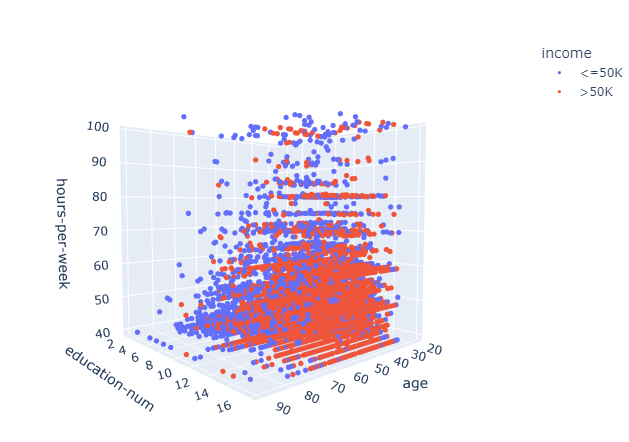
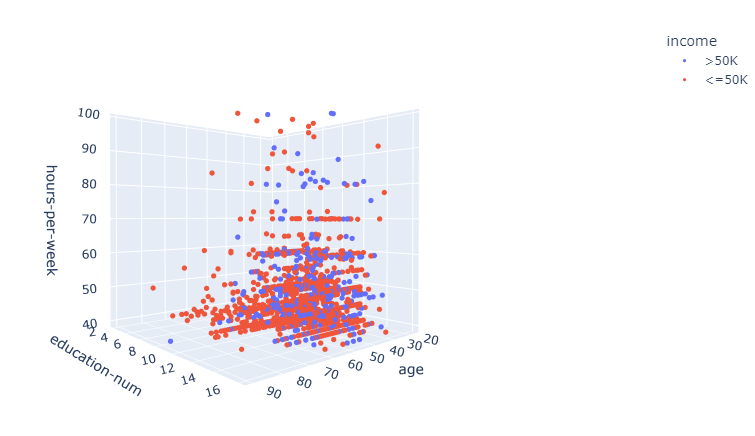
More Part

Changed region(s): [[0.0604, 0.2385, 0.725, 0.9541], [0.876, 0.0894, 0.9968, 0.2385], [0.2719, 0.3876, 0.3021, 0.4174]]

diff --git a/project.py b/project.py
@@ -1,3 +1,4 @@
+from random import random
 import seaborn as sns
 import pandas as pd
 import numpy as np
@@ -17,49 +18,95 @@ df = df.drop(['fnlwgt', 'capital-gain', 'capital-loss', 'education'], axis=1)
 
 df = df.loc[df['hours-per-week'] >= 40]
 
-
+# PAIR PLOT
 # plot = sns.pairplot(df, hue="income")
 # plt.show()
 
+# COUNT BY RACE
+# plot = sns.countplot(x='race', hue='income', data=df)
+# plt.show()
 
+# COUNT BY SEX
 # plot = sns.countplot(x='sex', hue='income', data=df)
 # plt.show()
 
 
+# AGE BY PERCENTAGE
 # df['age-count'] = df.groupby(by=['age'])['income'].transform('count')
 # df['age-count-by-income'] = df.groupby(by=['age', 'income'])['income'].transform('count')
 # df['percent-age'] = df['age-count-by-income'] / df['age-count']
 
+# plot = sns.lineplot(x='age', y='percent-age', data=df.loc[df['income'] == '>50K'])
+# plt.show()
 
-#plot = sns.lineplot(x='age', y='percent-age', data=df.loc[df['income'] == '>50K'])
-#plt.show()
 
-df = df.loc[df['native-country'] == 'United-States']
 
-df['More Than 50K'] = df['income'].map({ '<=50K': 0, '>50K': 1} ).astype(int)
+
+# PART 2
+
+# WORK CLASS
+# plot = sns.countplot(x='workclass', data=df)
+# plt.show()
+
+df['workclass'] = df['workclass'].apply(lambda x: 'Private' if x == '?' else x)
+
+# Education Num
+# plot = sns.countplot(x='education-num', data=df)
+# plt.show()
+
+# Marital Status / Relationship
+# plot = sns.countplot(x='marital-status', data=df)
+# plt.show()
+
+# plot = sns.countplot(x='relationship', data=df)
+# plt.show()
+
+# plot = sns.countplot(x='marital-status', hue='relationship', data=df)
+# plt.show()
 
 marriedList = ['Husband', 'Wife']
 df['married'] = df['relationship'].apply(lambda x: 1 if x in marriedList else 0)
 
-df['workclass'] = df['workclass'].apply(lambda x: 'Private' if x == '?' else x)
+# Occiupation
+# plot = sns.countplot(x='occupation', data=df)
+# plt.show()
 
 df['occupation'] = df['occupation'].apply(lambda x: 'Other-service' if x == '?' else x)
 
 
+# Race
+# plot = sns.countplot(x='race', data=df)
+# plt.show()
+
+
+# Sex
 le = preprocessing.LabelEncoder()
 df['sex'] = le.fit_transform(df['sex'])
 
 
-#print(df.corr(method='pearson')[['More Than 50K']])
+# Native Country
+# df['isUS'] = df['native-country'].apply(lambda x: 'US' if x == 'United-States' else 'Not US')
+# plot = sns.countplot(x='isUS', data=df)
+# plt.show()
 
-#plot = sns.heatmap(df.corr(method='pearson')[['More Than 50K']].sort_values(by='More Than 50K', ascending=False), annot=True)
-#plt.show()
+df = df.loc[df['native-country'] == 'United-States']
 
-# fig = px.scatter_3d(df, x='age', y='education-num', z='hours-per-week', color='income')
+# Income
+df['More Than 50K'] = df['income'].map({ '<=50K': 0, '>50K': 1} ).astype(int)
+
+
+
+# HEAT MAP
+# plot = sns.heatmap(df.corr(method='pearson')[['More Than 50K']].sort_values(by='More Than 50K', ascending=False), annot=True)
+# plt.show()
+
+# 3D Scatter
+# fig = px.scatter_3d(df.sample(frac=0.1, random_state=1), x='age', y='education-num', z='hours-per-week', color='income')
 # fig.update_traces(marker=dict(size=3))
 # fig.show(renderer="notebook")
 
 
+# One hot encode a few columns
 temp = pd.get_dummies(df['workclass'])
 df = df.join(temp)
 
@@ -69,13 +116,24 @@ df = df.join(temp)
 temp = pd.get_dummies(df['race'])
 df = df.join(temp)
 
-#drop encoded
+# Drop one hot encoded columns
 df = df.drop(['workclass', 'occupation', 'race'], axis=1)
 
+# Drop a few other columns that were taken care of before.
 df = df.drop(['marital-status', 'relationship', 'native-country', 'income'], axis=1)
 
+
+# Model Training
+
+# Get the data and scale it
 y_data = df['More Than 50K']
 x_data = df.drop('More Than 50K', axis=1)
+
+y_columns = ['More Than 50K']
+x_columns = x_data.columns.tolist()
+
+print(y_columns)
+print(x_columns)
 
 scaler = preprocessing.StandardScaler()
 x_data = scaler.fit_transform(x_data)
@@ -83,7 +141,6 @@ x_data = scaler.fit_transform(x_data)
 percentages = np.array([])
 linearResults = np.array([])
 treeResults = np.array([])
-
 
 for num in range(1, 10):
 
@@ -94,18 +151,27 @@ for num in range(1, 10):
     reg = linear_model.LinearRegression()
     reg = reg.fit(x_train, y_train)
     linearResults = np.append(linearResults, reg.score(x_test, y_test))
-    #print(reg.score(x_test, y_test))
 
-    # visual = ResidualsPlot(reg)
-    # visual.fit(x_train, y_train)
-    # visual.score(x_test, y_test)
-    # visual.poof()
+    # Plot residuals for one of the iterations
+    # if (num == 5): 
+    #     visual = ResidualsPlot(reg)
+    #     visual.fit(x_train, y_train)
+    #     visual.score(x_test, y_test)
+    #     visual.poof()
 
-    clf = tree.DecisionTreeClassifier(max_depth=2)
+    clf = tree.DecisionTreeClassifier()
     clf = clf.fit(x_train, y_train)
     treeResults = np.append(treeResults, clf.score(x_test, y_test))
 
-    #print(clf.score(x_test, y_test))
+    # Show Decision Tree Visual for one of the iterations
+    if (num == 5): 
+        print("Hello")
+        fig = plt.figure(figsize=(25,20))
+        plot = tree.plot_tree(clf, 
+                   feature_names=x_columns,  
+                   class_names=y_columns,
+                   filled=True)
+        plt.show
 
 resultDF = pd.DataFrame()
 resultDF['% Test'] = percentages
@@ -115,11 +181,9 @@ resultDF['Decision Tree Score'] = treeResults
 resultDF = resultDF.loc[resultDF['Linear Regression Score'] > 0]
 print(resultDF)
 
-#plot = sns.lineplot(data=resultDF, x='% Test')
+# Result Comparison Plot
+# plot = sns.lineplot(x='% Test', y='value', hue='variable', 
+#              data=pd.melt(resultDF, ['% Test']))
+# plt.show()
 
-plot = sns.lineplot(x='% Test', y='value', hue='variable', 
-             data=pd.melt(resultDF, ['% Test']))
-plt.show()
-
-
-
+# Decisions Tree
